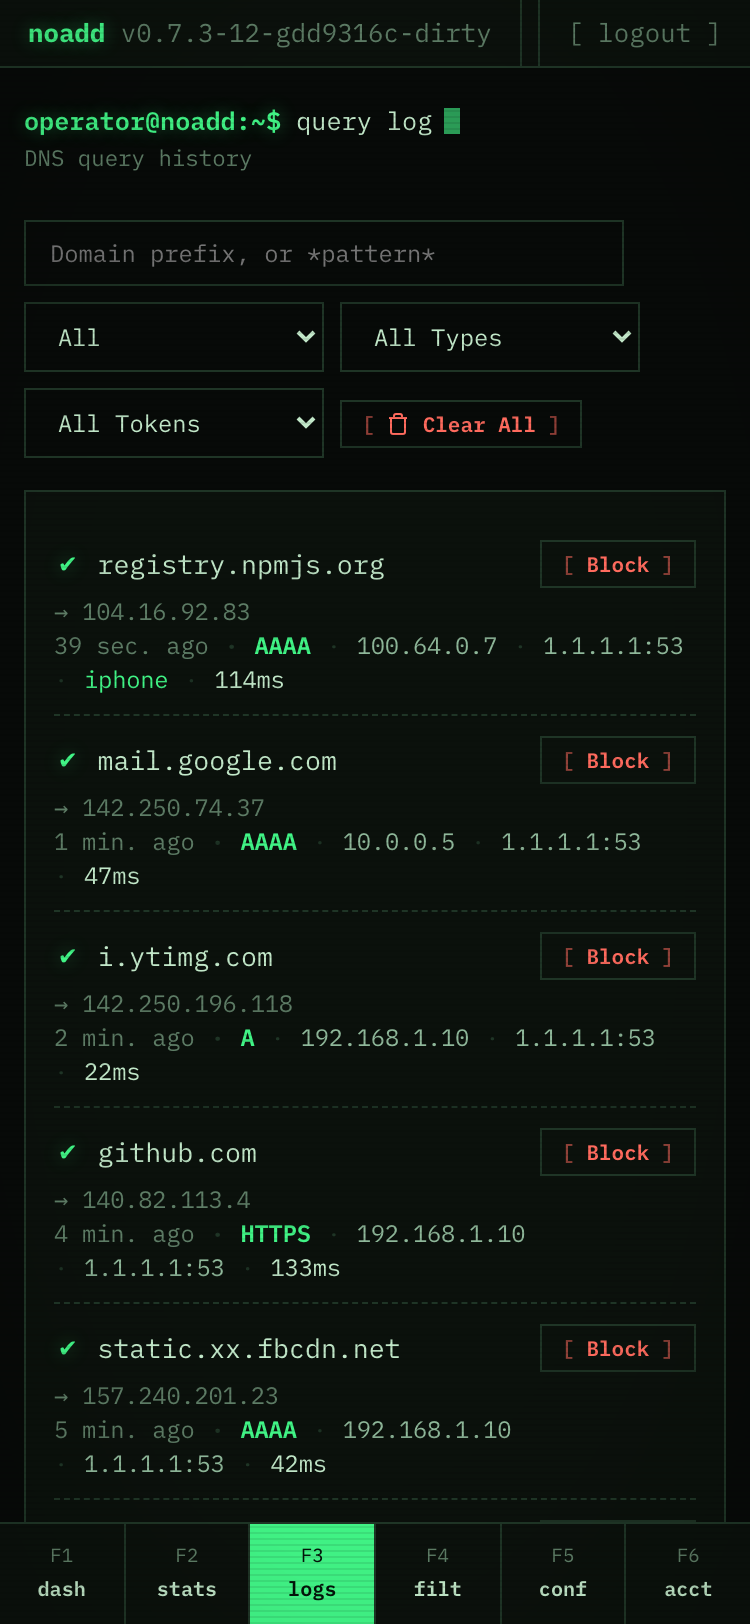
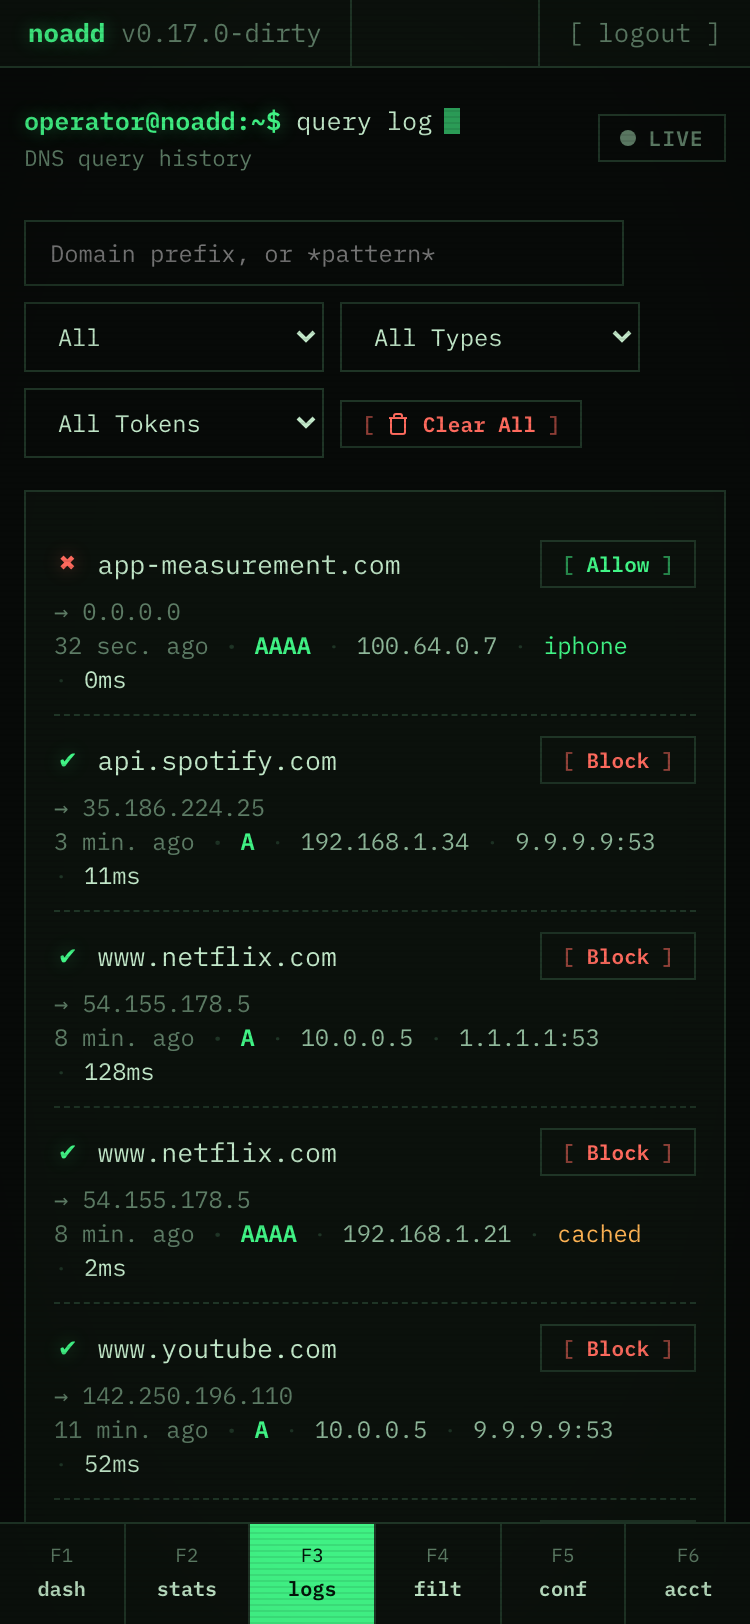
feat: add live query-log tail via SSE
Stream new DNS queries to the admin Query Log page in real time using
Server-Sent Events, so entries appear line-by-line as they are resolved
instead of only on manual reload.

- logger: fan each entry out to a tokio broadcast channel before the DB
  batch flush, gated on receiver_count() for zero cost when unwatched
- admin API: new GET /api/logs/stream SSE endpoint, authed via the same
  AuthedUser extractor (browser sends the session cookie automatically);
  lagged clients skip missed entries rather than stalling the logger
- admin UI: LIVE toggle on the Query Log page that appends rows via
  EventSource with a highlight flash, client-side filter matching, a
  200-row DOM cap, and pagination hidden while streaming
- docs: ARCHITECTURE.md note on the live broadcast; regenerate the
  query-log screenshots to show the LIVE toggle

diff --git a/tests/logger_test.rs b/tests/logger_test.rs
@@ -143,3 +143,46 @@ async fn test_logger_flushes_on_interval() {
     drop(tx);
     handle.await.unwrap();
 }
+
+#[tokio::test]
+async fn test_logger_publishes_to_event_broadcast() {
+    let dir = tempfile::tempdir().unwrap();
+    let db_path = dir.path().join("test.db");
+    let db = Database::open(db_path.to_str().unwrap()).await.unwrap();
+
+    // High threshold/interval so the DB flush doesn't race the assertion below;
+    // the broadcast event fires independently of the DB flush anyway.
+    let (logger, tx) = QueryLogger::new(db.clone(), 1000, 300);
+    let (events_tx, mut events_rx) = tokio::sync::broadcast::channel(16);
+    let logger = logger.with_event_sender(events_tx);
+
+    let handle = tokio::spawn(logger.run());
+
+    let ctx = QueryContext {
+        timestamp: 4000,
+        client_ip: IpAddr::from_str("172.16.0.1").unwrap(),
+        domain: "live.example.com".to_string(),
+        query_type: u16::from(RecordType::A),
+        action: QueryAction::Allowed,
+        cached: false,
+        upstream: Some("1.1.1.1:53".to_string()),
+        doh_token: None,
+        result: None,
+        response_time_ms: 7,
+        matched_rule: None,
+        matched_list: None,
+        authenticated_data: false,
+    };
+    tx.send(ctx).await.unwrap();
+
+    let entry = tokio::time::timeout(std::time::Duration::from_secs(1), events_rx.recv())
+        .await
+        .expect("timed out waiting for broadcast event")
+        .unwrap();
+    assert_eq!(entry.domain, "live.example.com");
+    assert_eq!(entry.query_type, "A");
+    assert!(!entry.blocked);
+
+    drop(tx);
+    handle.await.unwrap();
+}

diff --git a/src/admin/api.rs b/src/admin/api.rs
@@ -9,6 +9,7 @@ use std::sync::OnceLock;
 use arc_swap::ArcSwap;
 use axum::extract::{ConnectInfo, Path, Query, State};
 use axum::http::{HeaderMap, StatusCode, Uri};
+use axum::response::sse::{Event, KeepAlive, Sse};
 use axum::response::{IntoResponse, Response};
 use axum::routing::{delete, get, post, put};
 use axum::{Extension, Json, Router};
@@ -16,6 +17,9 @@ use axum_extra::extract::CookieJar;
 use axum_extra::extract::cookie::Cookie;
 use include_dir::{Dir, File, include_dir};
 use serde::{Deserialize, Serialize};
+use std::convert::Infallible;
+use tokio_stream::StreamExt;
+use tokio_stream::wrappers::BroadcastStream;
 use utoipa::OpenApi as _;
 use utoipa_scalar::Scalar;
 
@@ -25,7 +29,7 @@ use crate::admin::auth::{
 };
 use crate::admin::stats;
 use crate::cache::DnsCache;
-use crate::db::Database;
+use crate::db::{Database, QueryLogEntry};
 use crate::dns::handler::DnsHandler;
 use crate::filter::engine::FilterEngine;
 use crate::filter::lists::ListManager;
@@ -43,6 +47,7 @@ pub struct AppState {
     pub rate_limiter: Arc<RateLimiter>,
     pub forwarder: Arc<UpstreamForwarder>,
     pub handler: Arc<DnsHandler>,
+    pub log_events: tokio::sync::broadcast::Sender<std::sync::Arc<QueryLogEntry>>,
     pub server_info: ServerInfo,
     pub list_manager: Arc<ListManager>,
     pub rebuild: Arc<RebuildCoordinator>,
@@ -199,6 +204,7 @@ pub fn admin_router(state: AppState) -> Router {
         .route("/api/stats/v2/top-clients", get(get_stats_v2_top_clients))
         // Logs
         .route("/api/logs", get(get_logs).delete(delete_logs))
+        .route("/api/logs/stream", get(stream_logs))
         // Apple mobileconfig (no auth — token in URL is the credential)
         .route("/api/mobileconfig/{token}", get(get_mobileconfig))
         // Apple touch icon (rendered from favicon.svg at build time)
@@ -2134,6 +2140,27 @@ async fn get_logs(
         "logs": logs,
         "total": total,
     })))
+}
+
+/// Live tail of DNS query logs via Server-Sent Events.
+///
+/// Each newly-logged query is pushed as a JSON `QueryLogEntry` (identical
+/// shape to `GET /api/logs` rows). Auth is via the same `AuthedUser`
+/// extractor as the rest of the API; browsers send the `session` cookie on
+/// the `EventSource` connection automatically. Events are broadcast before the
+/// logger's DB flush, so the tail is real-time. A slow client that lags past
+/// the broadcast buffer simply skips the missed entries (the tail resumes).
+async fn stream_logs(
+    State(state): State<AppState>,
+    _auth: AuthedUser,
+) -> Sse<impl tokio_stream::Stream<Item = Result<Event, Infallible>>> {
+    let rx = state.log_events.subscribe();
+    let stream = BroadcastStream::new(rx).filter_map(|res| match res {
+        Ok(entry) => Event::default().json_data(&*entry).ok().map(Ok),
+        // Lagged: client fell behind the buffer — skip missed entries.
+        Err(_) => None,
+    });
+    Sse::new(stream).keep_alive(KeepAlive::default())
 }
 
 /// Delete all DNS query logs.

diff --git a/src/logger.rs b/src/logger.rs
@@ -12,6 +12,7 @@ pub struct QueryLogger {
     rx: mpsc::Receiver<QueryContext>,
     flush_threshold: usize,
     flush_interval_secs: u64,
+    events: Option<tokio::sync::broadcast::Sender<std::sync::Arc<QueryLogEntry>>>,
 }
 
 impl QueryLogger {
@@ -29,8 +30,19 @@ impl QueryLogger {
             rx,
             flush_threshold,
             flush_interval_secs,
+            events: None,
         };
         (logger, tx)
+    }
+
+    /// Attach a broadcast sender so each newly-logged entry is also published
+    /// live (for the admin UI SSE tail). Events fire before the DB batch flush.
+    pub fn with_event_sender(
+        mut self,
+        tx: tokio::sync::broadcast::Sender<std::sync::Arc<QueryLogEntry>>,
+    ) -> Self {
+        self.events = Some(tx);
+        self
     }
 
     /// Run the logger loop. Consumes self. Call in a `tokio::spawn`.
@@ -51,7 +63,16 @@ impl QueryLogger {
             tokio::select! {
                 maybe_ctx = self.rx.recv() => {
                     if let Some(ctx) = maybe_ctx {
-                        buffer.push(query_context_to_entry(ctx));
+                        let entry = query_context_to_entry(ctx);
+                        // Publish a live copy for SSE subscribers *before* the DB flush, so the
+                        // admin UI tail is real-time. Gated on receiver_count so there is zero
+                        // clone/alloc cost when nobody is watching.
+                        if let Some(events) = &self.events
+                            && events.receiver_count() > 0
+                        {
+                            let _ = events.send(std::sync::Arc::new(entry.clone()));
+                        }
+                        buffer.push(entry);
                         if buffer.len() >= self.flush_threshold {
                             flush(&self.db, &mut buffer).await;
                         }

diff --git a/src/main.rs b/src/main.rs
@@ -101,7 +101,9 @@ async fn main() -> anyhow::Result<()> {
 
     let cache = DnsCache::new(10_000);
 
+    let (log_events, _) = tokio::sync::broadcast::channel(256);
     let (logger, log_tx) = QueryLogger::new(db.clone(), 500, 1);
+    let logger = logger.with_event_sender(log_events.clone());
     let logger_handle = tokio::spawn(logger.run());
 
     let ip_rate_limiter = Arc::new(IpRateLimiter::new(
@@ -184,6 +186,7 @@ async fn main() -> anyhow::Result<()> {
         rate_limiter,
         forwarder: forwarder.clone(),
         handler: handler.clone(),
+        log_events: log_events.clone(),
         server_info,
         list_manager: list_manager.clone(),
         rebuild: rebuild.clone(),

diff --git a/tests/admin_api_test.rs b/tests/admin_api_test.rs
@@ -108,6 +108,7 @@ async fn build_app(registry_url: &str, set_password: bool) -> (axum::Router, Str
         rate_limiter,
         forwarder,
         handler,
+        log_events: tokio::sync::broadcast::channel(256).0,
         server_info: ServerInfo {
             dns_addr: "127.0.0.1:53".into(),
             http_addr: "127.0.0.1:3000".into(),
@@ -765,6 +766,7 @@ async fn test_setup_initial_password() {
         rate_limiter: rate_limiter.clone(),
         forwarder: forwarder.clone(),
         handler: handler.clone(),
+        log_events: tokio::sync::broadcast::channel(256).0,
         server_info: ServerInfo {
             dns_addr: "127.0.0.1:53".into(),
             http_addr: "127.0.0.1:3000".into(),
@@ -800,6 +802,7 @@ async fn test_setup_initial_password() {
         rate_limiter,
         forwarder,
         handler,
+        log_events: tokio::sync::broadcast::channel(256).0,
         server_info: ServerInfo {
             dns_addr: "127.0.0.1:53".into(),
             http_addr: "127.0.0.1:3000".into(),

diff --git a/tests/api_key_auth.rs b/tests/api_key_auth.rs
@@ -63,6 +63,7 @@ async fn build_app() -> (axum::Router, Database) {
         rate_limiter,
         forwarder,
         handler,
+        log_events: tokio::sync::broadcast::channel(256).0,
         server_info: ServerInfo {
             dns_addr: "127.0.0.1:5353".into(),
             http_addr: "127.0.0.1:3000".into(),

diff --git a/tests/stats_api_test.rs b/tests/stats_api_test.rs
@@ -81,6 +81,7 @@ async fn setup() -> (axum::Router, String) {
         rate_limiter,
         forwarder,
         handler,
+        log_events: tokio::sync::broadcast::channel(256).0,
         server_info: ServerInfo {
             dns_addr: "127.0.0.1:53".into(),
             http_addr: "127.0.0.1:3000".into(),

diff --git a/ARCHITECTURE.md b/ARCHITECTURE.md
@@ -120,6 +120,8 @@ The engine is behind `ArcSwap` for lock-free reads. Filter updates build a new e
 
 The DNS handler sends log events through a `tokio::sync::mpsc` channel. A dedicated task batches entries and flushes to SQLite (every 500 entries or every 1 second). This keeps the query path non-blocking.
 
+The logger also fans each entry out to a `tokio::sync::broadcast` channel that backs the admin UI's live tail (`GET /api/logs/stream`, Server-Sent Events). The broadcast fires *before* the batch flush, so the tail is real-time, and is gated on `receiver_count()` so there is zero clone/allocation cost when nobody is watching. Slow SSE clients that lag past the buffer skip the missed entries rather than stalling the logger.
+
 ### Schema Migrations
 
 SQLite schema versioning uses `PRAGMA user_version`. Each migration checks the current version and applies changes incrementally. New databases get the latest schema directly from `CREATE TABLE` statements.